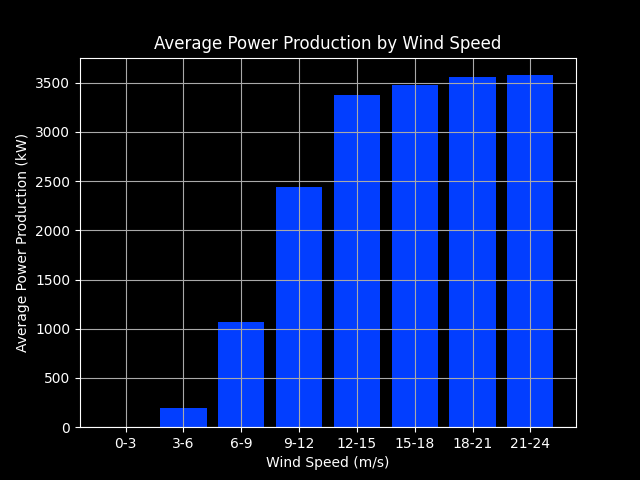
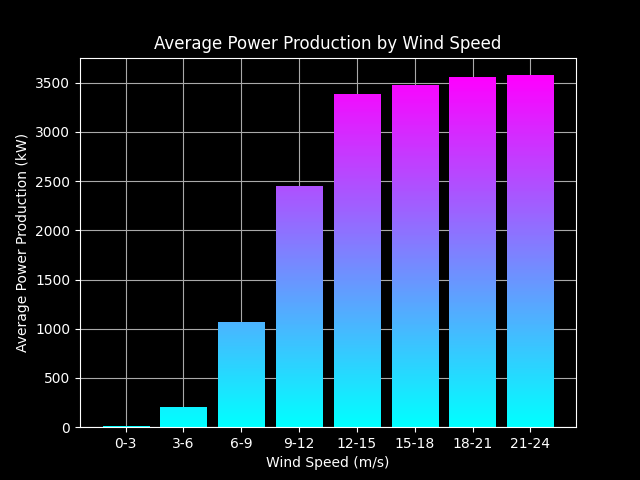
Visual update (gradient)

Changed region(s): [[0.25, 0.1562, 0.875, 0.9062]]

diff --git a/Main.py b/Main.py
@@ -2,7 +2,7 @@ import calendar
 from datetime import timedelta
 from colorama import Fore
 import joblib
-from matplotlib import dates
+from matplotlib import cm, dates
 from matplotlib.widgets import Slider
 import pandas as pd
 import matplotlib as mpl
@@ -24,6 +24,7 @@ def exploratory_data_analysis(data):
 def check_wind_trends(data):
     data = data[data.index.month == 1]
     plt.plot(data.index, data['Wind Speed (m/s)'], label = data.index, linewidth = 1, color = 'red')
+    plt.savefig("Results/wind_trends")
     plt.show()
 
 
@@ -56,7 +57,6 @@ def most_productive_periods(data, period = 'month'):
 
     fig, ax1 = plt.subplots()
 
-    #set_dark_bg()
     color = 'yellow'
     ax1.set_xlabel(x_label)
     ax1.set_ylabel('Average LV ActivePower (kW)', color = color)
@@ -166,7 +166,24 @@ def avg_power_by_windspeed(data):
     grouped_data = data.groupby(pd.cut(data["Wind Speed (m/s)"], bins=range(0, 26, 3)))["LV ActivePower (kW)"].mean()
 
     # Plot bar chart
-    plt.bar(grouped_data.index.astype(str), grouped_data.values)
+    def gradientbars(bars,ydata,cmap):
+            ax = bars[0].axes
+            lim = ax.get_xlim()+ax.get_ylim()
+            ax.axis(lim)
+                
+            for i, bar in enumerate(bars):
+                #bar.set_facecolor("none")
+                x,y = bar.get_xy()
+                h, w = bar.get_height(), bar.get_width()
+                grad = np.atleast_2d(np.linspace(0,1*h/max(ydata),256)).T
+
+                #zorder of 2 to get gradients above the facecolor, but below the bar outlines
+                ax.imshow(grad, extent=[x,x+w,y,y+h], origin='lower',aspect="auto",zorder=2, norm=cm.colors.NoNorm(vmin=0,vmax=1),cmap=cmap)
+    
+    my_bar = plt.bar(grouped_data.index.astype(str), grouped_data.values)
+    cmap = plt.get_cmap('cool')
+    gradientbars(my_bar, grouped_data.values, cmap)
+    #plt.bar(grouped_data.index.astype(str), grouped_data.values)
     plt.xlabel("Wind Speed (m/s)")
     plt.ylabel("Average Power Production (kW)")
     plt.title("Average Power Production by Wind Speed")
@@ -210,10 +227,10 @@ def plot_theoretical_vs_real_power(data):
 
 
 def main():
-    #data = clean_data(pd.read_csv('wind_turbine_data.csv'))
     data = optimize_dateformat(pd.read_csv('wind_turbine_data.csv'))
     set_dark_bg()
     detect_missing_data(data)
+    check_wind_trends(data)
     most_productive_periods(data)
     most_productive_periods(data, 'hour')
     corr_between_windspeed_activepower_winddirection(data)

diff --git a/README.md b/README.md
@@ -3,6 +3,8 @@
 I found some common questions about wind turbines and I will answer them in this project. :)
 After that I compare 6 different Machine Learning Models and select the best one to a predict REST API .
 
+If you run the Main.py, it will show you all plots. But you can see all of them in this readme file. :)
+
 Used imports:
     import calendar
     from datetime import timedelta
